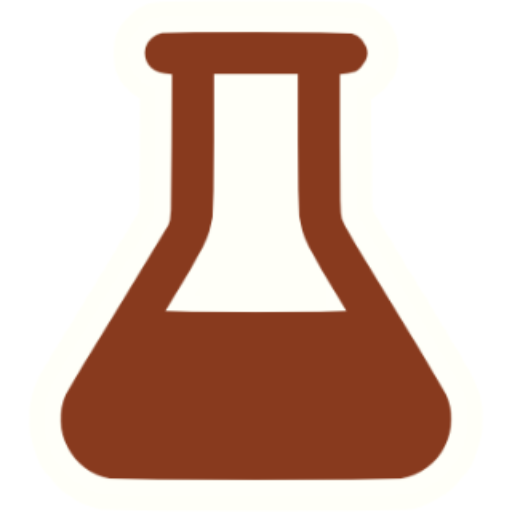
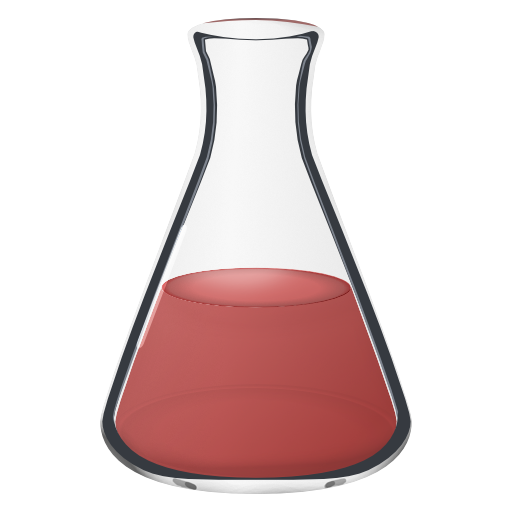
🎨 名称を日本語に。アイコン変更。背景のスタイル調整

diff --git a/html/index.html b/html/index.html
@@ -4,7 +4,15 @@
 <head>
 	<meta charset="UTF-8">
 	<meta name="viewport" content="width=device-width, initial-scale=1.0">
-	<title>Suzume Labs</title>
+	<title>雀研 – Suzume Labs</title>
+	<meta name="description" content="雀研はブラウザで動作するWeb技術のデモサイトです。">
+	<meta name="og:title" content="雀研">
+	<meta name="og:description" content="雀研はブラウザで動作するWeb技術のデモサイトです。">
+	<meta name="og:image" content="/assets/img/ogp.png">
+	<meta name="og:url" content="https://suzume-labs.com">
+	<meta name="og:site_name" content="雀研">
+	<meta name="og:type" content="website">
+	<meta name="og:locale" content="ja_JP">
 	<link rel="stylesheet" href="/assets/css/fundamental.css">
 	<link rel="stylesheet" href="/assets/css/index.css">
 	<link rel="apple-touch-icon" sizes="180x180" href="/assets/img/apple-touch-icon.png">
@@ -12,7 +20,10 @@
 
 <body>
 	<div class="container">
-		<h1>Suzume Labs</h1>
+		<header class="index-header">
+			<img alt="●" src="/assets/img/apple-touch-icon.png" width="36" height="36">
+			<h1>雀研</h1>
+		</header>
 	</div>
 	<script type="module" src="/assets/js/index.js"></script>
 </body>

diff --git a/html/font/rtlm/index.html b/html/font/rtlm/index.html
@@ -1,0 +1,32 @@
+<!DOCTYPE html>
+<html lang="ja">
+
+<head>
+	<meta charset="UTF-8">
+	<meta name="viewport" content="width=device-width, initial-scale=1.0">
+	<title>rtlmフィーチャー</title>
+	<meta name="keywords" content="font,OpenType,rtlm feature">
+	<meta name="description" content="OpenTypeの rtlm フィーチャーを使い、書字方向が右から左の場合の字形を表示する。">
+	<link rel="stylesheet" href="/assets/css/fundamental.css">
+</head>
+
+<body>
+
+	<h1>rtlmフィーチャー</h1>
+
+	<h2>normal</h2>
+	<div>
+		<p style="font-family: 'Hiragino Kaku Gothic', sans-serif">
+			左←右→左（右）
+		</p>
+	</div>
+
+	<h2>font-feature-settings: "rtlm"</h2>
+	<div style="font-feature-settings: 'rtlm';">
+		<p style="font-family: 'Hiragino Kaku Gothic', sans-serif">
+			左←右→左（右）
+		</p>
+	</div>
+</body>
+
+</html>

diff --git a/html/assets/css/index.css b/html/assets/css/index.css
@@ -7,21 +7,39 @@
 	--border-color: #e5e7eb;
 	--hover-color: #f3f4f6;
 	--no-results-color: #ff6b6b;
+
+	font-family: -apple-system, BlinkMacSystemFont, "Segoe UI", Roboto, "Helvetica Neue", Arial,
+		sans-serif;
+	color: var(--text-color);
+	background-color: var(--background-color);
 }
 
 body {
 	min-height: 100vh;
-	font-family: -apple-system, BlinkMacSystemFont, "Segoe UI", Roboto, "Helvetica Neue", Arial,
-		sans-serif;
-	color: var(--text-color);
 	line-height: 1.5;
 	margin: 0;
 	padding: 2rem;
-	background-color: var(--background-color);
 }
 
 h1 {
+	font-size: 200%;
 	margin-top: 0;
+}
+
+.index-header {
+	display: flex;
+	justify-content: flex-start;
+	align-items: center;
+	gap: 0.25rem;
+	margin-bottom: 1.5rem;
+}
+
+.index-header h1 {
+	margin: 0;
+}
+
+.index-header img {
+	margin-inline: -0.125rem;
 }
 
 .container {
